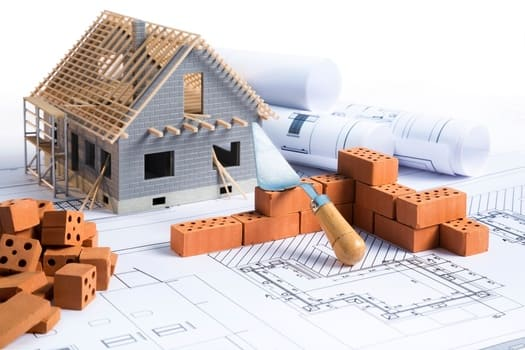
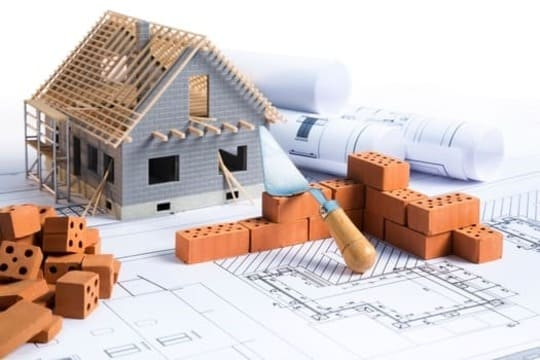
servico de eletrica

diff --git a/index.html b/index.html
@@ -88,12 +88,13 @@
                         </div>
                     </div>
                     <div class="servico">
-                        <img src="img/pintura.jpg" alt="Pintura e Revestimento" class="servico-foto">
+                        <img src="img/eletrica.jpg" alt="Pintura e Revestimento" class="servico-foto">
                         <h2 class="servico-titulo">ELÉTRICA</h2>
                         <div class="servico-texto">
-                            <h3></h3>
-                            <h3></h3>
-                            <h3></h3>
+                            <h3>Fiação elétrica</h3>
+                            <h3>Instalação de Chuveiro</h3>
+                            <h3>Tomadas</h3>
+                            <h3>Quadro de Distribuição</h3>
                         </div>
                     </div>
                     <div class="servico">
@@ -103,6 +104,7 @@
                             <h3>Instalação de piso Cerâmico e Porcelanato</h3>
                             <h3>Fixação de placas de Granitos e Mármores</h3>
                             <h3>Instalação de Azulejos e Pastilhas</h3>
+                            <h3>Instalação de Rodapé</h3>
                         </div>
                     </div>
                 </div>

diff --git a/css/style.css b/css/style.css
@@ -701,7 +701,7 @@ a.contato-link:hover * {
 
     .servico-foto {
         height: 180px;
-        width: auto;
+        width: 290px;
         max-width: 100%;
     }
 
